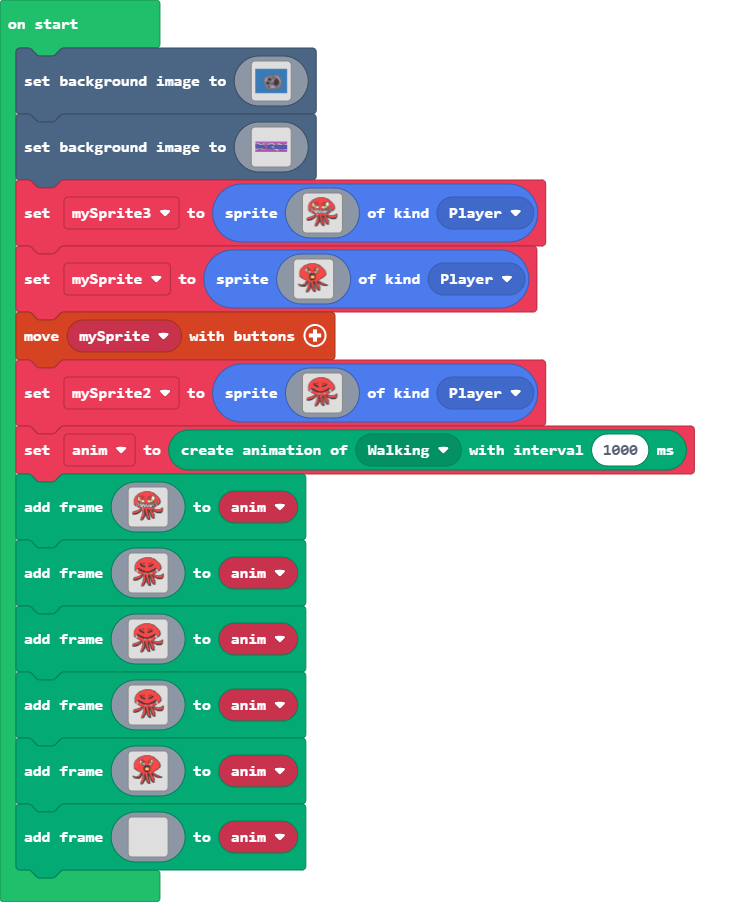
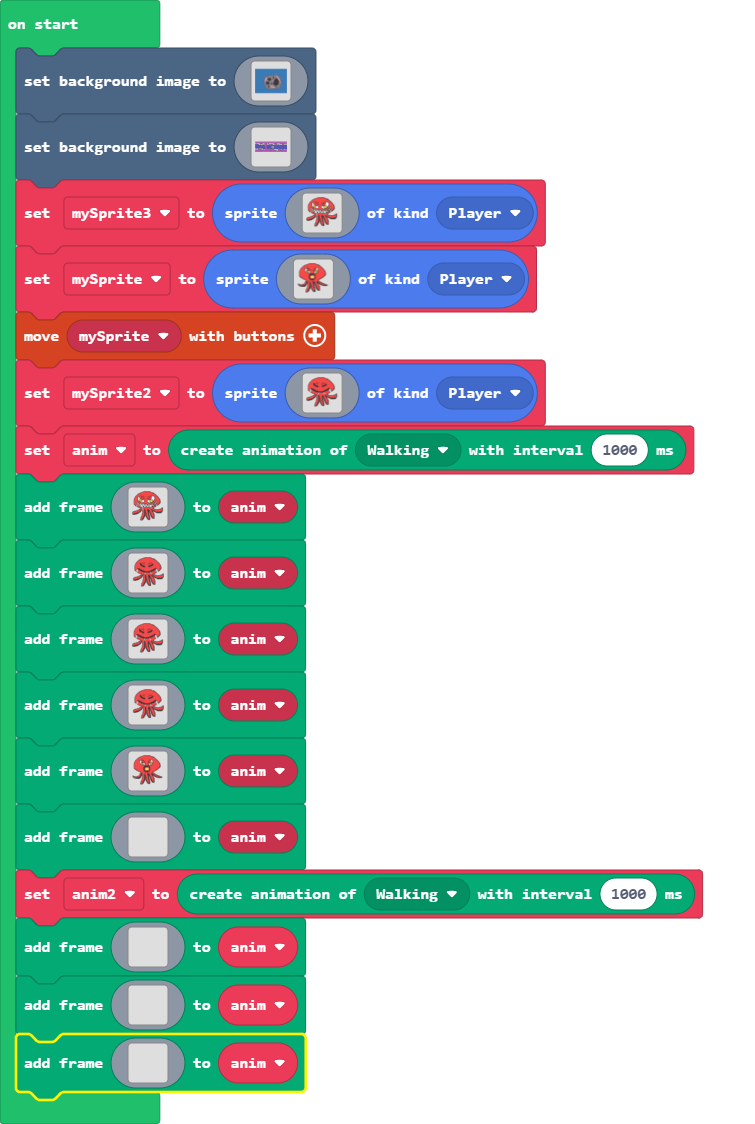
Update main.blocks, main.ts

diff --git a/main.ts b/main.ts
@@ -764,3 +764,58 @@ anim.addAnimationFrame(img`
     . . . . . . . . . . . . . . . . 
     . . . . . . . . . . . . . . . . 
     `)
+let anim2 = animation.createAnimation(ActionKind.Walking, 1000)
+anim.addAnimationFrame(img`
+    . . . . . . . . . . . . . . . . 
+    . . . . . . . . . . . . . . . . 
+    . . . . . . . . . . . . . . . . 
+    . . . . . . . . . . . . . . . . 
+    . . . . . . . . . . . . . . . . 
+    . . . . . . . . . . . . . . . . 
+    . . . . . . . . . . . . . . . . 
+    . . . . . . . . . . . . . . . . 
+    . . . . . . . . . . . . . . . . 
+    . . . . . . . . . . . . . . . . 
+    . . . . . . . . . . . . . . . . 
+    . . . . . . . . . . . . . . . . 
+    . . . . . . . . . . . . . . . . 
+    . . . . . . . . . . . . . . . . 
+    . . . . . . . . . . . . . . . . 
+    . . . . . . . . . . . . . . . . 
+    `)
+anim.addAnimationFrame(img`
+    . . . . . . . . . . . . . . . . 
+    . . . . . . . . . . . . . . . . 
+    . . . . . . . . . . . . . . . . 
+    . . . . . . . . . . . . . . . . 
+    . . . . . . . . . . . . . . . . 
+    . . . . . . . . . . . . . . . . 
+    . . . . . . . . . . . . . . . . 
+    . . . . . . . . . . . . . . . . 
+    . . . . . . . . . . . . . . . . 
+    . . . . . . . . . . . . . . . . 
+    . . . . . . . . . . . . . . . . 
+    . . . . . . . . . . . . . . . . 
+    . . . . . . . . . . . . . . . . 
+    . . . . . . . . . . . . . . . . 
+    . . . . . . . . . . . . . . . . 
+    . . . . . . . . . . . . . . . . 
+    `)
+anim.addAnimationFrame(img`
+    . . . . . . . . . . . . . . . . 
+    . . . . . . . . . . . . . . . . 
+    . . . . . . . . . . . . . . . . 
+    . . . . . . . . . . . . . . . . 
+    . . . . . . . . . . . . . . . . 
+    . . . . . . . . . . . . . . . . 
+    . . . . . . . . . . . . . . . . 
+    . . . . . . . . . . . . . . . . 
+    . . . . . . . . . . . . . . . . 
+    . . . . . . . . . . . . . . . . 
+    . . . . . . . . . . . . . . . . 
+    . . . . . . . . . . . . . . . . 
+    . . . . . . . . . . . . . . . . 
+    . . . . . . . . . . . . . . . . 
+    . . . . . . . . . . . . . . . . 
+    . . . . . . . . . . . . . . . . 
+    `)
